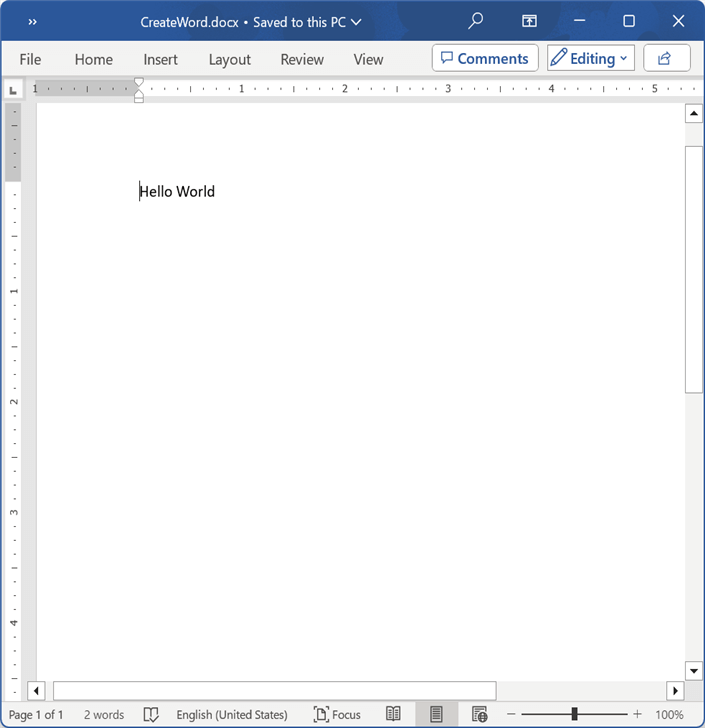
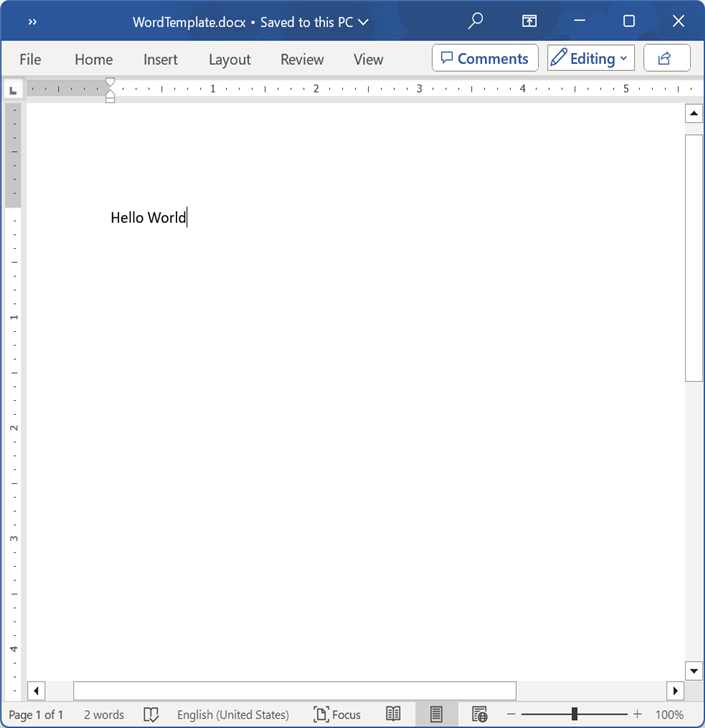
892839 - Open-and-save-Word-document-in-AWS-S3-Cloud-Storage

diff --git a/Document-Processing/Word/Word-Library/NET/Open-and-save-Word-document-in-AWS-S3-Cloud-Storage.md b/Document-Processing/Word/Word-Library/NET/Open-and-save-Word-document-in-AWS-S3-Cloud-Storage.md
@@ -66,7 +66,7 @@ public async Task<IActionResult> EditDocument()
     string bucketName = "your-bucket-name";
 
     //Name of the Word file you want to load from AWS S3
-    string key = "CreateWord.docx";
+    string key = "WordTemplate.docx";
 
     try
     {
